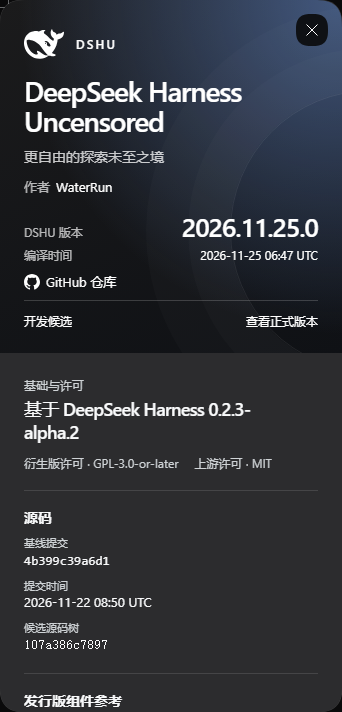
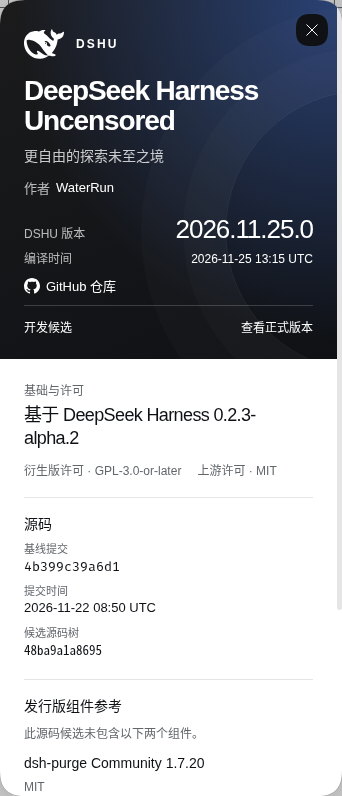
验收 Linux x64 候选并补齐下一正式版接手清单

diff --git a/.agents/requirements/2026-11-25-release-handoff.md b/.agents/requirements/2026-11-25-release-handoff.md
@@ -2,7 +2,68 @@
 
 更新于 2026-11-25。面向接手主线开发、专项模式、桌面安装和发行验收的维护者。正式版须交付缺省、写作、网安、逆向四种模式。通用与写作候选可以独立验证和推送。涉及自动攻击、漏洞利用的专项执行链由维护者接手，专项验收完成前，完整内核升级和新版发行保持待完成。
 
-[版本身份](#版本身份) · [七项需求](#七项需求如何验收) · [复现](#从干净目录复现) · [保留资料](#旧资料与问题-20) · [平台验收](#桌面与平台验收) · [交付顺序](#交付顺序与接手责任)
+[正式版接手清单](#正式版接手清单) · [合并后的关于页](#合并后的关于页) · [版本身份](#版本身份) · [七项需求](#七项需求如何验收) · [复现](#从干净目录复现) · [保留资料](#旧资料与问题-20) · [平台验收](#桌面与平台验收) · [交付顺序](#交付顺序与接手责任)
+
+## 正式版接手清单
+
+**发行状态为待完成。** 下一正式版的最低范围是上一正式版 `v2026.11.24.3` 的完整用户功能，加上[本次七项变更](#七项需求如何验收)。GitHub Latest 仍指向 `v2026.11.24.3`，首发版到它的 Windows 静默升级存在[已复现的问题](#issue-24-的首发版静默升级)。本次 `2026.11.25.0` 的 Windows、Linux 验收包仅含缺省和写作。关于页列出的 dsh-purge Community 和 REA 是上一正式版的组件参考，两者均未随此候选交付。
+
+**先建立对照。** 从上一正式版的 GitHub Release 记录取平台、附件名、字节数和摘要，保留一份干净旧版及一份受控旧资料。用相同平台、配置和账号类型检查最终拟交付的安装文件。主线、还原后的两模式内核和最终四模式安装包要分别标识。将本次实际候选的源码提交、候选树和 SHA-256 写到每份回执上。重新打包后重新核对该文件。[上一正式版](https://github.com/Water-Run/deepseek-harness-uncensored/releases/tag/v2026.11.24.3) · [该版功能说明](https://github.com/Water-Run/deepseek-harness-uncensored/blob/7eaeddc6050ee60e114cc3ef0d81de9c1371aacd/README.md)
+
+| 对照项目 | 接手者在最终安装包上核对什么 | 当前能交接的结果 |
+| --- | --- | --- |
+| 四种模式与旧会话 | 核对缺省、写作、网安、逆向的现有入口、可选范围、设置保存和旧会话归属。升级、重启、分叉后逐个检查原模式。记录任何消失、被重映射或无法打开的入口。 | 现有新版安装包仅覆盖前两种。另两种模式和专项能力的实际交付由对应维护者独立确认。 |
+| 随包组件与工具 | 上一版公开元数据记录 dsh-purge Community 1.7.20、REA 6.9.0，REA 的 `toolCount` 为 255。区分发行清单登记、实际安装内容和当前会话可见项目。登记数量相同也可能有同名替换、缺项或重复项。 | 两模式候选的组件参考、关于页截图和通用工具测试均不能证明这两项随包或可用。专项验收待维护者提交对应安装包的结果。 |
+| 通用工具与插件 | 在相同设置下按稳定标识逐项比较旧版和最终包。分别记录已安装、可发现、已启用及用户手动停用的项目。以无害样本实测文件读取、文件搜索、终端收发、图片及文档处理、离线插件安装与移除。升级后复核用户自己安装的插件。 | Linux x64 的通用运行时检查见下文。最终四模式包还须重做。版本号、工具总数、菜单文字不能代替逐项结果。 |
+| 已有使用范围 | 原先可用且未设限的通用能力须维持原有范围。对照新旧的开关状态、可填值、最大最小值、是否允许留空或不限、账号/API Key 路径、工作区范围以及离线可用性。用新资料、已保存非默认值和已有未设限配置各测一次。 | 用户主动设置的限额和旧偏好需要保留。本次明确变更的默认值见七项需求。新增强制登录、额外配额、必须启动外部服务、固定上限或禁用原入口，均须作为差异处理。 |
+| 既有对话与写作 | 复核 `/side` 与 `/btw`、输入建议的采纳与放弃、写作资料、置顶排序、归档找回、分叉、删除与工作区文件保留。分别从冷启动及已打开会话进入。 | 输入建议事件和两份旧版写作资料已有实测。已发布的 66 个事件名中仍有一个 `target/admission` 待对应维护者判定。 |
+| 计费、记忆与外观 | 检查对话费用与曲线、底栏用量、限制进度、主题与模式色、跨对话记忆、额度设置、双端拖动和侧栏余额。分别比较旧账号、新账号和自定义设置。 | 新版记忆默认关闭，余额自动清理默认开启并保留 30 天。仅移除截图所指的插件“更多”入口。账号菜单、普通插件入口和原有会话操作应可达。 |
+| 平台覆盖与安装升级 | 对每个公开交付的平台、架构和安装形式，检查全新安装及保留资料的覆盖升级。通过应用自身的更新入口，从首发版、上一正式版各演练一次。核对下载文件、版本登记、原安装位置、旧资料及更新后实际启动的程序。 | Windows 两个起始版本的安装器覆盖与 Linux x64 两种包管理器的验收范围见下文。macOS 的 #20、真实在线更新以及尚无实机回执的平台仍待完成。 |
+
+每项差异单独占一行。回执字段为“旧版实际行为、候选实际行为、复验操作、平台与配置、安装包摘要、证据位置、负责人、结论”。用“通过”“本次明确要求变更”“缺失或退化”“待验证”四种结论。标为“本次明确要求变更”时附用户需求或已确认的变更记录。工具更名还要留旧标识到新标识的对应和已有配置的复验结果。旧版未设限而新版增加限制、组件缺失、旧会话打不开，以及缺少专项结果的情况，都保持待发行。
+
+### 从上一版建立逐项差异表
+
+打开固定版本的使用手册、默认设置表和功能入口速查，在上一版安装包中从新会话走到设置、账号菜单、工作区和更新入口。将每个可操作项和保存的用户选择各登记一行。再从旧 profile、应用实际展示的通用插件与工具清单补齐文档里没有列出的项目。逐项记录平台、登录方式和开关状态；只在某个平台存在的功能写明平台。发现旧手册与实装不符时同时记录两者，以旧包可复现的行为作对照。[上一正式版使用手册](https://github.com/Water-Run/deepseek-harness-uncensored/blob/7eaeddc6050ee60e114cc3ef0d81de9c1371aacd/docs/user/guide/dshu.md) · [上一正式版 README](https://github.com/Water-Run/deepseek-harness-uncensored/blob/7eaeddc6050ee60e114cc3ef0d81de9c1371aacd/README.md)
+
+| 容易在合并时遗漏的通用功能 | 在最终安装包内检查 |
+| --- | --- |
+| 创建与输入 | 从欢迎页进入工作区，创建新对话。试用模式菜单、斜杠命令、`@` 引用文件与会话、附件、输入预测、旁问的各个入口和随问。旧会话中的预测、附件和引用在冷启动后仍可读取。 |
+| 对话与写作资料 | 加载旧文风卡及设定集，检查已有选用范围。核对会话模式色条、运行与等待标记、置顶与普通会话分区排序、分叉模式归属和归档找回。在测试资料中删除会话，确认关联子会话按原规则清理、工作区文件保留。 |
+| 额度与账户 | 旧版的六档额度限制在新装时均关闭，额度自动恢复也默认关闭。分别用旧版未设限资料和开启某档的资料升级，核对设置、各窗口用量与底栏进度。检查轮次、步数、生成速度、token、缓存、费用曲线和多账户采样隔离。 |
+| 个性化与插件 | 对照日出日落、浅色、深色、跟随系统，以及输入预测、旁问上下文清理等偏好。检查正常的插件管理、移除、设置入口和此前由用户停用的通用工具。 |
+| 数据与应用身份 | 在默认目录和自定义 `DSH_UNCENSORED_HOME` 各走一次升级与冷启动；与官方版并存时核对两套应用标识、程序、数据目录、CLI 与更新源。核对用户工作区、配置和本地备份可恢复。 |
+
+在最终候选的交付记录里复制下表，按实际结果增行。下面是将上一正式版与候选树 `48ba9a1a8695` 对照后已经找到的差异。每个旧版入口和已登记的通用工具都应有可追溯的行；只有数量、只记录抽样或只有上一轮构建截图的项目，结论保持“待验证”。
+
+| 项目 | 旧版实际行为 | 当前候选与证据 | 最终包、平台、负责人和结论 |
+| --- | --- | --- | --- |
+| 原会话输入建议 | 两个正式版可写出含输入建议的压缩会话。 | 候选安装后能续写，重启后读回同一条建议与消息。[Windows 回执](#含输入建议的旧会话) · [Linux 复验](#在-linux-安装目录复验旧会话) | 当前两模式候选已有实测；最终四模式包待复验。 |
+| 输入预测的生成与采纳 | 默认启用，输入框能生成建议，用户可以采纳、忽略或关闭预测。[旧版键盘交互用例](https://github.com/Water-Run/deepseek-harness-uncensored/blob/7eaeddc6050ee60e114cc3ef0d81de9c1371aacd/packages/client/ui-conversation/tests/prediction-keymap.client.spec.tsx) | 候选保留了旧事件的读取。旧版输入框的预测偏好与键盘交互文件均未出现在候选目录，未取得新建议的界面回执。 | 待补齐并从输入框验证一次采纳、一次放弃，再关闭开关冷启动复验。 |
+| 旁问与随问 | 支持 `/side`、`/btw`、会话顶部及右侧开始页入口。[旧版控制器用例](https://github.com/Water-Run/deepseek-harness-uncensored/blob/7eaeddc6050ee60e114cc3ef0d81de9c1371aacd/packages/client/ui-commands/tests/asides-controller.client.spec.ts) | 候选未包含旧版的 `ui-commands/src/client/asides/` 或 `session-controller/src/asides.ts`。还未取得等价交互的回执。 | 待补齐并核对新建、返回主会话、清理偏好和旧旁问重开。 |
+| 日出日落外观 | 新装默认 `sun`，可以选择浅色、深色、跟随系统或日出日落。[旧版主题设置](https://github.com/Water-Run/deepseek-harness-uncensored/blob/7eaeddc6050ee60e114cc3ef0d81de9c1371aacd/packages/client/ui-theme/src/theme-settings.ts) | 在同名候选文件中可选值仅有 `light`、`dark`、`system`，默认为 `system`。 | 确认缺失。恢复该选项与旧默认值后，覆盖新装、已有 `sun` 设置以及固定浅色或深色三种情况。 |
+| 关于页检查更新 | 可在应用内检查 GitHub 更新。 | 候选页脚“查看正式版本”打开 Release 页面。最终布局需接回正式更新入口，并显示检查结果。 | 最终包待实现并实测。关联 [#24](https://github.com/Water-Run/deepseek-harness-uncensored/issues/24)。 |
+| 填入具体入口、设置或稳定标识 | 填旧包版本、前置配置、用户操作与实际结果 | 填新包的同一操作、结果和差异，附回执或截图位置 | 填最终包 SHA-256、平台、负责人、四种结论之一 |
+
+### 合并后的关于页
+
+| 位置 | 最终包的验收条件 |
+| --- | --- |
+| 左侧品牌区 | 保留鲸鱼、DSHU、正式产品名、标语、作者、**DSHU 日期版本**、编译时间、仓库及更新入口。桌面渐变贴齐左、上、下三边，窄屏铺满顶部。弹窗没有额外可见的“关于”标题栏，辅助功能名称和关闭按钮可用。 |
+| 右侧内核与源码 | **DSH 内核版本**与实际运行内核一致。区分上游固定提交、本次 DSHU 源码标识与构建时间，分别打开链接核对目标仓库和完整 SHA。提交时间对应所示提交。 |
+| 右侧组件与许可 | 按该安装包的实际交付状态展示组件名称、版本、源码节点、提交时间、许可和第三方声明。区分随包提供与需用户另行配置的部分。候选当前的“发行版组件参考”和“未包含”反映的是两模式包；最终内容需根据最终载荷重新生成并实查。 |
+| 发布与更新动作 | 复核仓库、使用手册、许可证、第三方声明及 Release 链接。正式包应保留上一版可直接检查更新的入口。检查当前已是最新版、有新版、离线或请求失败的反馈和重新检查动作。实际版本来源、链接目标和用户提示必须相符。 |
+| 候选痕迹与文档 | 查找“开发候选”“候选源码”“查看正式版本”“未包含”等候选文案，以及指向开发分支的版本链接。逐处决定正式版正确文本和目标。用最终安装包重拍中英文桌面和窄屏，替换 README 与手册中受影响的截图、版本和下载说明。 |
+
+先用 `--verify-build` 核对客户端构建记录，再从已安装应用的账号菜单和桌面原生菜单分别打开关于页。宽屏核对左右区域，390 像素宽核对顶栏、滚动和关闭，最后按 Esc 检查焦点。保留一张含产品版本、内核版本、源码节点的实拍，以及对应包的 SHA-256。链接可点击、出处正确、字段与安装包一致后，才登记关于页通过。
+
+### 发布前最后一次核对
+
+1. 冻结最终源码和安装包清单。上一版的 10 个附件包括 Windows x64 EXE、Linux x64 DEB/RPM、Linux arm64 DEB、macOS arm64 DMG/ZIP，以及 `latest.yml`、`latest-linux.yml`、`latest-linux-arm64.yml`、`latest-mac.yml`。逐个核对新包版本、对应平台及摘要，验证索引实际指向可下载的同一文件。当前两模式候选的回执只适用于其记录的文件。
+2. 在隔离测试账户中完成升级、冷启动、旧会话重开、设置持久化与故障恢复。从桌面操作实际版本检查入口。保存旧资料备份，对照更新前后的用户数据，确认回退演练的安装器与数据副本配对。
+3. 由产品、专项和发行负责人分别登记结果。只要有缺失、意外新增限制或待验证项，继续保留上一正式版的 Latest 和更新索引。候选源码里程碑可照常推送到 GitHub。
+4. 用同一份最终清单逐一更新根 README、使用手册、受影响包的中英文 README、升级指南和 Release 正文。分别走一遍从 README 下载、从旧应用更新的路径。复核版本、默认值、截图、附件名和对应平台。
+5. 正式发布的回执应列出最终标签和提交、各平台安装包摘要、每个更新索引指向的文件、资料兼容结果、功能差异清单和最终界面截图。公开后从下载入口复核同一组文件并记录结果。
 
 ## 版本身份
 
@@ -58,6 +119,8 @@ pnpm run build
 git write-tree
 pnpm exec vitest run --maxWorkers=1 packages/boot/app-boot/tests/profile-resolution.spec.ts
 ```
+
+构建后，在主线根目录运行 `node scripts/prepare-kernel-candidate.mjs --verify-build .artifacts/review-alpha`。该命令核对固定提交、补丁树、工作区与暂存区的差异，并检查客户端构建记录中的 DSHU 版本、内核版本、上游提交、上游提交时间和候选树。临时传输提交即使包含完全相同的文件，也会使“基线提交”链接指向错误位置。Linux 实测遇到过这种情况。换机时应传输固定清单、补丁和还原脚本，在目标机重新还原。最后从实际应用打开关于页，核对链接指向清单中的上游提交。
 
 旧 profile 修复对应的候选树 `2eb4efd39dfe10723274f75bae5cdedbad11be35` 在 Windows x64 完成过冻结安装、10 项构建和 234 项解析测试。后续候选变更应分别记录自己的树、构建和受影响的行为测试。源码树与构建结果都不能替代桌面安装验证。
 
@@ -122,7 +185,7 @@ pnpm run test:web:built apps/web/tests/balance-cleanup.e2e.ts apps/web/tests/bal
 
 ### 关于页与模式设置的候选验收
 
-关于页布局首次在候选树 `9a040762398793a9e8e29c8c2c243f167e9fda04` 验收。从账号菜单打开关于页，登录前后都能使用。桌面左侧的渐变贴齐弹窗上、下、左三边，窄屏改为顶部横幅。弹窗通过辅助技术名称标识，右上角关闭按钮固定可达。桌面用 Escape 关闭后，焦点回到账号菜单，可以直接按 Enter 再次打开。[候选桌面实拍](../../docs/assets/dshu/about-candidate.webp) · [候选窄屏实拍](../../docs/assets/dshu/about-candidate-mobile.webp)
+关于页布局首次在候选树 `9a040762398793a9e8e29c8c2c243f167e9fda04` 验收。从账号菜单打开关于页，登录前后都能使用。桌面左侧的渐变贴齐弹窗上、下、左三边，窄屏改为顶部横幅。弹窗通过辅助技术名称标识，右上角关闭按钮固定可达。桌面用 Escape 关闭后，焦点回到账号菜单，可以直接按 Enter 再次打开。下列中文实拍来自 Fedora 上的候选树 `48ba9a1a8695`，分别使用 1280 像素和 390 像素宽的视口。[候选桌面实拍](../../docs/assets/dshu/about-candidate.webp) · [候选窄屏实拍](../../docs/assets/dshu/about-candidate-mobile.webp)
 
 | 关于页字段 | 当前候选数据与核对方法 |
 | --- | --- |
@@ -204,7 +267,7 @@ $env:ELECTRON_RUN_AS_NODE = '1'
 if ($LASTEXITCODE -ne 0) { throw "会话恢复检查失败，退出码 $LASTEXITCODE" }
 ```
 
-主线的 `dynamic-tool-updates` 无密钥回放在 Windows 上多读到主机自带的 ACL 诊断技能提示，与已提交的跨平台记录相差一条事件。该回放的标准环境为 macOS 或 Linux。Windows 的投影对照、HTTP 回归和旧版本日志复验分别记录。正式验收仍须补跑标准环境的快照。
+主线的 `dynamic-tool-updates` 无密钥回放在 Windows 上多读到主机自带的 ACL 诊断技能提示，与已提交的跨平台记录相差一条事件。新版候选树 `48ba9a1a8695` 已在 Fedora 45 x86_64 的独立用户目录运行 `pnpm run test:snapshot -t dynamic-tool-updates`。Headless 和 SDK 两条回放均通过，覆盖合成工具 `snapshot_ping` 的加入、一次调用、移除，以及会话记录与 SDK 通知的一致性。旧主线在标准环境的结果仍待单独核对。
 
 | 发行前验收 | 通过条件 |
 | --- | --- |
@@ -456,12 +519,53 @@ Fedora 的首次干净构建在 Host Typert 阶段报错。跨对话记忆的抽
 
 候选树 `2aad09492786a034c10bae38c1513355e7e56e1b` 的 Fedora x64 运行时已通过 PNG 编解码、PTY 收发、文件搜索、使用随包 pnpm 离线安装与移除插件、启动后台，以及 DOCX、XLSX、PPTX 转 PDF、图像渲染与表格重算。可在专属验证目录 `~/.local/state/dshu-verification/alpha-20261125-4799b8b259b2/` 中查看 `prepared-runtime-2aad094927.log`。这个目录按首次构建命名，复验源码以日志对应的树为准。Windows 端还原补丁后得到相同 Git 树，候选的 10 项构建检查、43 项文档检查均通过。已有 Windows 实装证据对应的安装器见前文。
 
+同一树组装后的 CLI 启动失败。electron-builder 按应用目录下的**输入路径**匹配 `asarUnpack`，直接写归档内的目标路径会将后台入口留在 ASAR 内。独立 Node 因此找不到 `app.asar.unpacked/dsh/node_modules/@deepseek-ai/dsh-desktop-host/lib/cli.js`。该树生成的 Linux 包不具备交付资格。后继源码使用构建器自己的匹配器回归检查桌面主程序、后台清单和 CLI 三个位置，并在 `afterPack` 从组装目录读取和校验完整后台文件清单。只有这一步成功才开始生成安装包。
+
+候选树 `48ba9a1a8695db845b44623916614f7da2a24571` 在 Fedora 45 x86_64 通过组装目录的完整清单校验。通过随包 CLI 查询得到 DSHU `2026.11.25.0`，随包 Node 报告 `v24.22.3`。在独立 X11 显示器和空资料目录启动桌面，点击欢迎页的 API Key 入口，再选“稍后配置”，进入工作区。实测工作区视口为 1280 × 792。账号菜单能打开关于页，左侧品牌区与弹窗上、左边缘的坐标完全一致，左侧显示 DSHU 日期版本，右侧显示内核 `0.2.3-alpha.2` 和候选树短标识，源码字段保留完整树值。Esc 可以关闭。桌面导航中没有插件“更多”按钮。此项验收未使用模型密钥。
+
[1 lines of base64/hex data omitted]
+
+### Linux x64 未签名安装包与回执
+
+以下三个文件来自 Fedora 45 x86_64 的同一次构建。目标机用主线还原脚本检出固定上游并应用补丁，客户端构建记录和桌面关于页共同确认基线 `4b399c39a6d1`、提交时间 `2026-11-22 08:50 UTC` 和候选树 `48ba9a1a8695`。Linux 包管理器登记版本为 `2026.1125.0`，RPM 的 Release 字段为 `1`。CLI 与关于页均显示产品日期版本 `2026.11.25.0`。
+
+| 文件 | 字节数 | SHA-256 |
+| --- | ---: | --- |
[3 lines of base64/hex data omitted]
+
+| 环境 | 实测结果 |
+| --- | --- |
+| Debian 13 amd64 | 在独立系统容器中用 apt 安装 deb，以普通用户启动随包 CLI。同版重装前后，包登记和用户标记保持一致。两个正式版写出的压缩 v4 会话分别完成续写和重开。 |
+| Fedora 44 x86_64 | 在独立系统容器中用 dnf 安装 RPM，同版重装后以普通用户重新打开两份历史会话。包登记、CLI 和用户标记均通过核对。 |
+| Fedora 45 x86_64 | 另外从 deb 解包，在隔离的 X11 显示器启动桌面。tar.gz 完整解压后独立运行 CLI 和随包 Node。三个归档内的关键文件均与组装结果一致。配置 XDG 文档目录的新用户可以从欢迎页进入工作区，应用创建默认工作区并显示关于页。 |
+
+本轮首次对最终组装目录做运行时检查时，临时构建目录的符号链接与进程报告的物理路径不同，导致路径核对失败。将同一批文件按字节和权限核对后放回标准物理输出目录，重新执行三种归档检查和原有的完整运行时检查，均通过。复测包括离线安装与移除插件、PNG、PTY、后台启动，以及 Office 转换和重算。
+
+维护机交付目录为 `%USERPROFILE%/DSHU-Deliveries/20261125/linux-x64-candidate/48ba9a1a86/upstream-4b399c39/`。其中 `result.json` 对应归档与启动结果，`deb-manager.json` 和 `rpm-manager.json` 记录包登记和两代会话，`workspace.json`、`about-zh.json` 和中英文 PNG 记录实际界面。以上均为缺省与写作的未签名候选。两种包已验证首次安装及同版重装，旧版 Linux 安装包直接覆盖升级、实体桌面门户、Linux arm64 及 macOS arm64 的发行验收仍待完成。
+
+### 在 Linux 安装目录复验旧会话
+
+从两个正式版的受控测试资料各取一份压缩 v4 会话及其 `prediction-events.json`，每个版本使用独立副本。原始写入提交为 `95325688c913` 和 `7eaeddc6050e`。测试会话保存了用户的第一句话、输入建议的请求与结果。先记录两个原件的 SHA-256。安装后以普通用户操作副本，从应用安装目录启动[会话检查](../../kernel/0.2.3-alpha.2/verification/installed-composer-session.mjs)。
+
+```sh
+runtime='/opt/DeepSeek Harness Uncensored/resources/runtime'
+node_bin="$runtime/primary-runtime/dependencies/node/bin/node"
+"$runtime/cli/bin/dsh-uncensored" --version
+"$node_bin" ./installed-composer-session.mjs continue "$fixture" "$fixture/prediction-events.json"
+# 使用相同的 deb 或 RPM 从包管理器重装，再启动一个新进程。
+"$node_bin" ./installed-composer-session.mjs reopen "$fixture" "$fixture/prediction-events.json"
+```
+
+每次将 `fixture` 设为对应版本的副本目录。`continue` 先逐字段核对原始建议事件及其顺序，确认只有已发送的文字出现在对话中，再追加第二句话。`reopen` 从磁盘读回两句话和原始建议。另比较用户目录中独立标记文件在重装前后的 SHA-256，复核包管理器登记和 CLI 版本。
+
 ## 桌面与平台验收
 
 | 目标 | 对照安装形式 | 本轮发行候选验收 |
 | --- | --- | --- |
 | Windows x64 | exe | 缺省与写作的未签名安装器、保留资料及冷启动结果见上表。四模式包、正式签名与真实在线更新仍待验收。 |
-| Linux x64 | deb、rpm 分别验证 | 已接入两种安装包与 tar.gz 的原生打包和逐包校验。待记录已安装桌面的启动和保留资料升级结果。见[原生构建](#linux-候选的原生构建)。 |
+| Linux x64 | deb、rpm 分别验证 | Debian 13 和 Fedora 44 已分别验证首次安装、同版重装及两代会话。Fedora 45 已验证解包后的桌面和便携 CLI。旧系统覆盖升级与实体桌面门户待验。[逐包摘要与回执](#linux-x64-未签名安装包与回执)。 |
 | Linux arm64 | deb | 已接入 deb 和 tar.gz 打包入口。待原生构建、在包管理器中安装并验证启动与已有资料。 |
 | macOS arm64 | DMG 手动安装，按旧版实际更新索引验证应用内升级 | 记录签名、公证及 Gatekeeper 结果，再做 Issue #20 的保留资料场景。过渡版本的旧更新器仍可能下载 ZIP。 |
 

diff --git a/README.md b/README.md
@@ -302,7 +302,7 @@
 | [使用手册](docs/user/guide/dshu.md) | 第一个任务、各模式用法、默认值、数据恢复、故障排查和功能入口速查 |
 | [模型配置](docs/user/guide/providers.zh.md) | 模型提供方、凭据与自定义接口 |
 | [模式资料](packages/client/ui-mode-materials/README.zh.md) · [REA 接入](packages/mcp/rea/README.zh.md) · [执行保护](packages/guard/target-protection/README.zh.md) | 专项功能的技术说明 |
-| [新版接手文档](.agents/requirements/2026-11-25-release-handoff.md) · [开发清单](.agents/TODO.md) · [交付记录](.agents/HANDOFF.md) | 功能进度、验收状态与发布流程 |
+| [新版接手文档](.agents/requirements/2026-11-25-release-handoff.md) · [开发清单](.agents/TODO.md) · [交付记录](.agents/HANDOFF.md) | [上一正式版功能对照](.agents/requirements/2026-11-25-release-handoff.md#从上一版建立逐项差异表)、[合并后的关于页](.agents/requirements/2026-11-25-release-handoff.md#合并后的关于页)与分平台发行验收 |
 | [反馈问题](https://github.com/Water-Run/deepseek-harness-uncensored/issues/new/choose) | 缺陷报告与功能建议 |
 
 ## 版本基线
@@ -311,7 +311,10 @@
 | --- | --- |
 | DSHU | 最新正式版 `2026.11.24.3` |
 | DeepSeek Harness | 源码基于 [0.2.2-rc.5](https://github.com/deepseek-ai/deepseek-harness/releases/tag/dsh-v0.2.2-rc.5) |
-| 新内核候选 | DSHU `2026.11.25.0` 使用 DSH `0.2.3-alpha.2`。缺省与写作已接入跨对话记忆、余额历史和模式设置。关于页左侧显示 DSHU 日期版本，右侧列出内核与组件信息。[桌面](docs/assets/dshu/about-candidate.webp) · [窄屏](docs/assets/dshu/about-candidate-mobile.webp) · [Windows 安装器与版本身份](.agents/requirements/2026-11-25-release-handoff.md#windows-安装器与版本身份)。Windows x64 未签名候选已从首发版和上一正式版完成静默升级，验证了降级保护、无效登记拦截和旧写作会话保留。[安装包摘要与升级结果](.agents/requirements/2026-11-25-release-handoff.md#issue-24-的首发版静默升级)。Linux x64 与 arm64 的源码候选已接入原生打包与逐包校验。[Linux 候选构建与验收](.agents/requirements/2026-11-25-release-handoff.md#linux-候选的原生构建)。四模式正式发行仍在验收。 |
+| 新内核候选 | DSHU `2026.11.25.0` 使用 DSH `0.2.3-alpha.2`，目前只含缺省与写作。跨对话记忆、余额历史和模式设置已接入。关于页左侧显示 DSHU 日期版本，右侧列出内核、源码与组件信息。[桌面](docs/assets/dshu/about-candidate.webp) · [窄屏](docs/assets/dshu/about-candidate-mobile.webp) |
+| 与正式版的差异 | 候选仍缺日出日落主题和关于页内的更新检查。旁问、随问和新输入预测也待补齐并实测。完整四模式版本仍待交付。[逐项对照与现有证据](.agents/requirements/2026-11-25-release-handoff.md#从上一版建立逐项差异表) |
+| Windows x64 候选 | 未签名安装器已从首发版和上一正式版完成静默升级，已验证降级保护、无效登记拦截和旧写作会话保留。[版本身份](.agents/requirements/2026-11-25-release-handoff.md#windows-安装器与版本身份) · [安装包摘要与升级结果](.agents/requirements/2026-11-25-release-handoff.md#issue-24-的首发版静默升级) |
+| Linux 候选 | x64 的 deb、RPM、tar.gz 已逐包核验。Debian 13 和 Fedora 44 已验证安装、同版重装和两代旧会话，Fedora 45 已启动桌面和便携 CLI。arm64 已接入打包，待原生验收。[安装包摘要与实测范围](.agents/requirements/2026-11-25-release-handoff.md#linux-x64-未签名安装包与回执) |
 | 破甲提示词 | dsh-purge Community [v1.7.20](https://github.com/kingcharleslzy-ai/dsh-purge/releases/tag/v1.7.20) |
 | REA | [6.9.0 · d74549e495c5](https://github.com/morluto/rea/commit/d74549e495c58eb4a560279fd9f05508401ea0a0) |
 

diff --git a/.agents/HANDOFF.md b/.agents/HANDOFF.md
@@ -1,6 +1,8 @@
 # DSHU 开发交接
 
-[当前四模式新版接手文档](requirements/2026-11-25-release-handoff.md)列出主线与候选的区别、七项需求、旧资料验证、分平台验收和维护者分工。下列为 2026-11-18 至 19 日交付记录。
+接手下一正式版请从[发行条件](requirements/2026-11-25-release-handoff.md#正式版接手清单)开始，再填写[上一正式版逐项差异表](requirements/2026-11-25-release-handoff.md#从上一版建立逐项差异表)。合并后按[关于页字段和更新入口](requirements/2026-11-25-release-handoff.md#合并后的关于页)与[发布前核对](requirements/2026-11-25-release-handoff.md#发布前最后一次核对)复验最终安装包。当前新内核包仅含缺省与写作，完整四模式发行仍待验收。
+
+下列为 2026-11-18 至 19 日的历史交付记录。
 
 [Windows x64 首发交接与缺口清单](requirements/2026-11-19-first-release-handoff.md)记录当前源码和实装的对应关系、剩余任务、Release 核验与资料回退。
 
